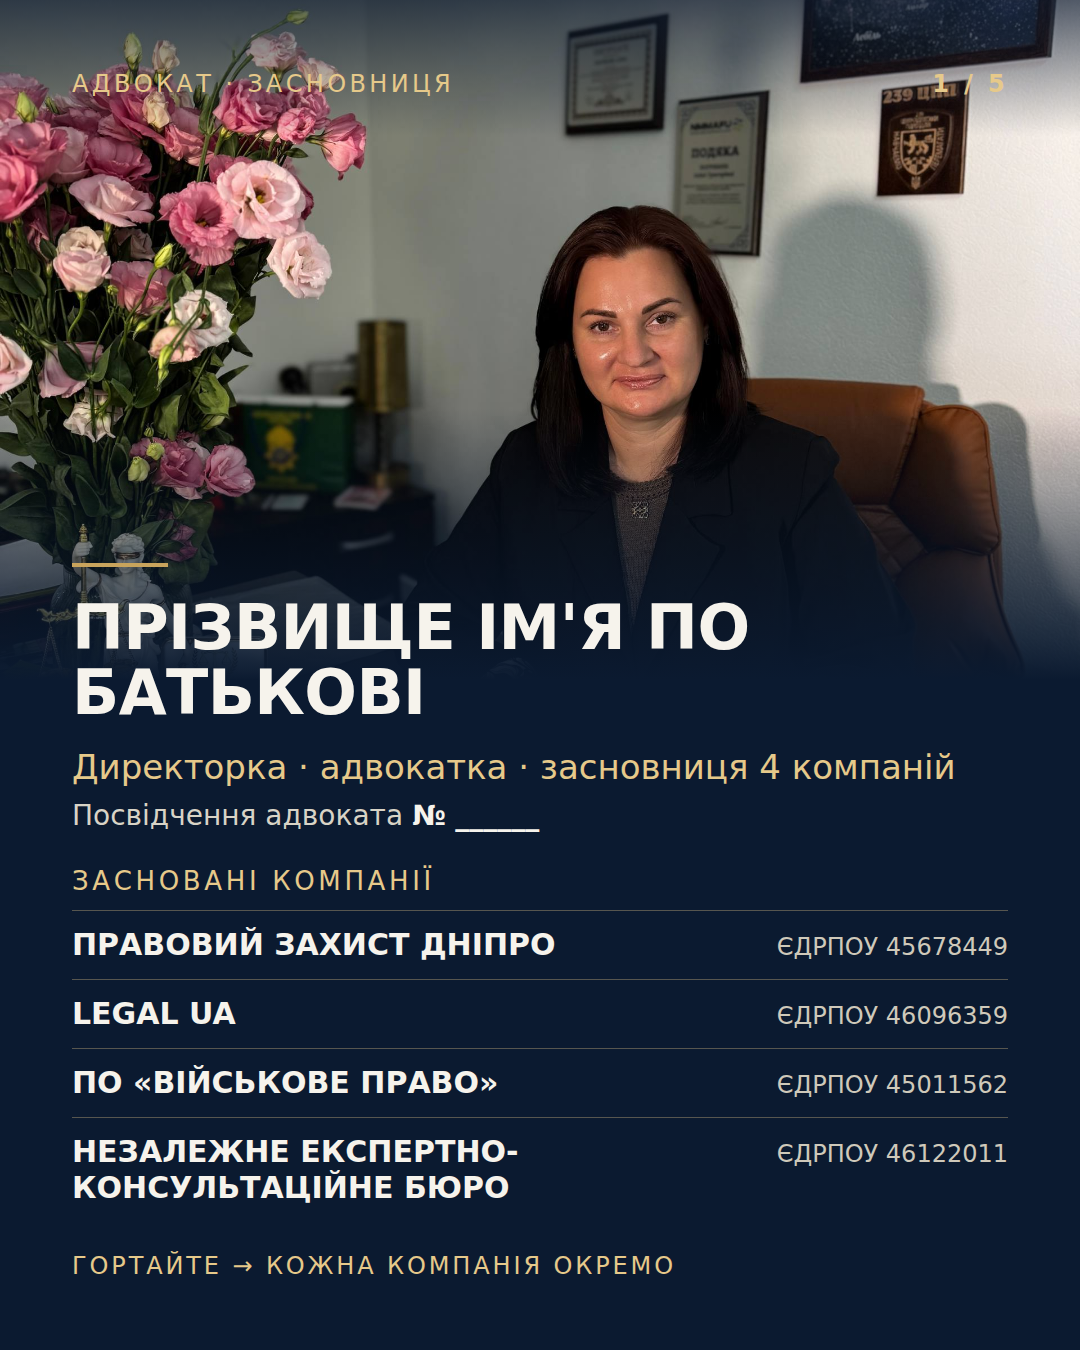
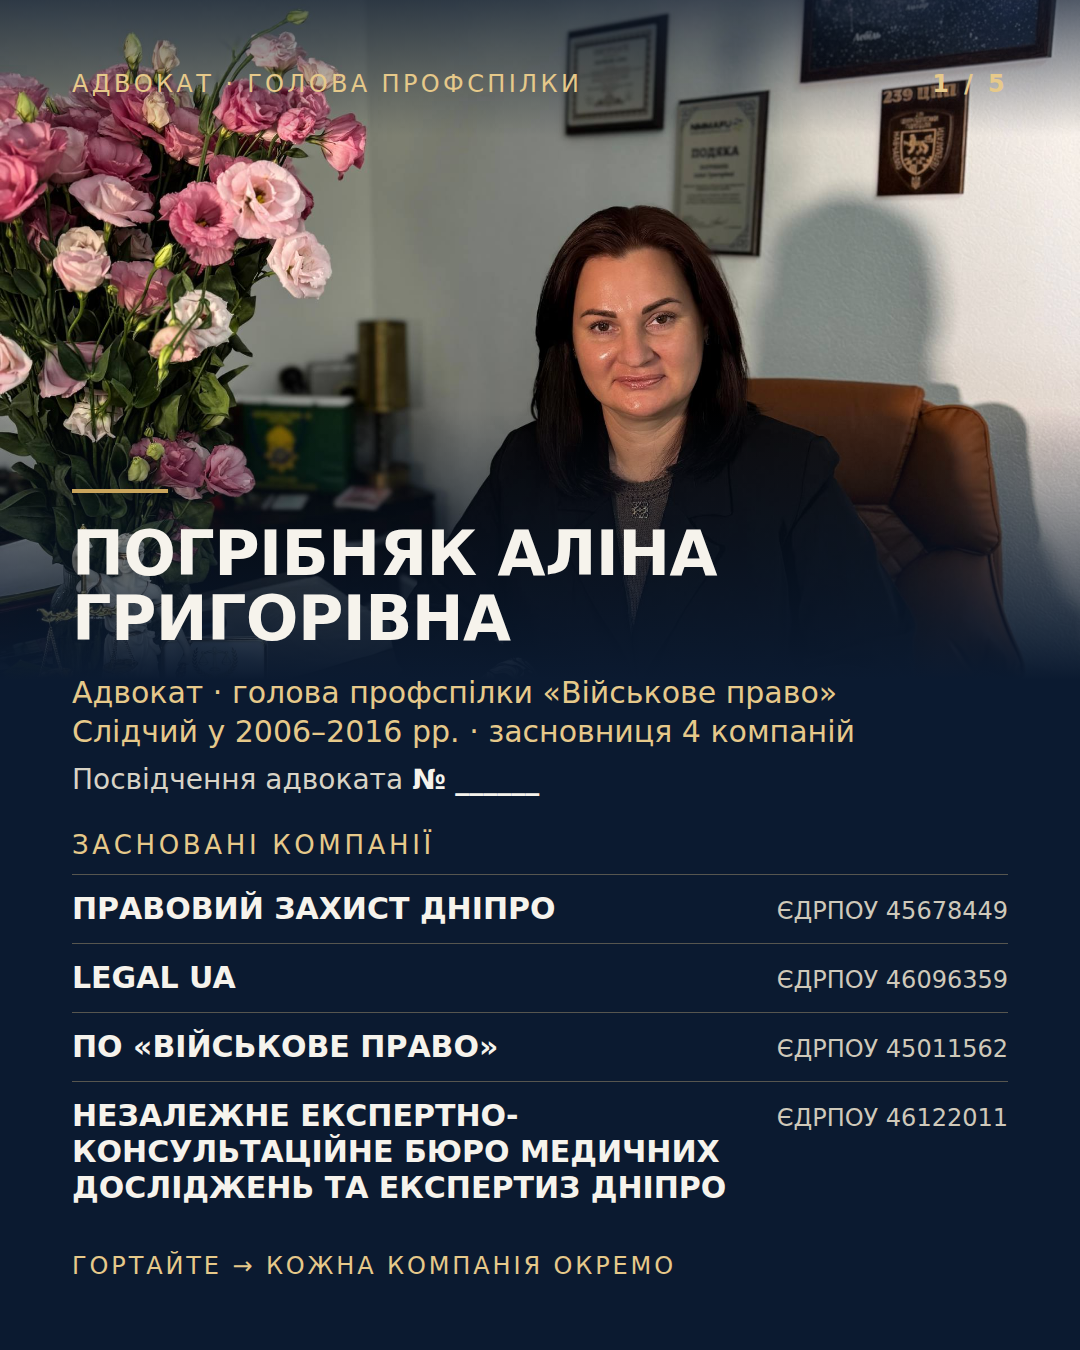
Carousel: add director name, roles and full company names
Claude-Session: https://claude.ai/code/session_01ScKPRsarJZMd8inKAKUiyX

Changed region(s): [[0.0611, 0.3733, 0.8861, 0.9022], [0.7028, 0.6533, 0.9472, 0.8711], [0.2444, 0.0311, 0.4278, 0.0933]]

diff --git a/carousel/slides.html b/carousel/slides.html
@@ -50,17 +50,17 @@
 <section class="slide s1" id="slide1">
   <div class="photo"></div><div class="shade"></div>
   <div class="content">
-    <div class="top"><span>Адвокат · Засновниця</span><span class="num">1 / 5</span></div>
+    <div class="top"><span>Адвокат · Голова профспілки</span><span class="num">1 / 5</span></div>
     <div class="spacer"></div>
     <div class="rule"></div>
     <div class="name">{{FIO}}</div>
-    <div class="role">Директорка · адвокатка · засновниця 4 компаній</div>
+    <div class="role" style="font-size:30px;line-height:1.3">Адвокат · голова профспілки «Військове право»<br>Слідчий у 2006–2016 рр. · засновниця 4 компаній</div>
     <div class="cert">Посвідчення адвоката <b>№ {{CERT}}</b></div>
     <div class="label">Засновані компанії</div>
     <div class="co">ПРАВОВИЙ ЗАХИСТ ДНІПРО <small>ЄДРПОУ 45678449</small></div>
     <div class="co">LEGAL UA <small>ЄДРПОУ 46096359</small></div>
     <div class="co">ПО «ВІЙСЬКОВЕ ПРАВО» <small>ЄДРПОУ 45011562</small></div>
-    <div class="co">НЕЗАЛЕЖНЕ ЕКСПЕРТНО-КОНСУЛЬТАЦІЙНЕ БЮРО <small>ЄДРПОУ 46122011</small></div>
+    <div class="co">НЕЗАЛЕЖНЕ ЕКСПЕРТНО-КОНСУЛЬТАЦІЙНЕ БЮРО МЕДИЧНИХ ДОСЛІДЖЕНЬ ТА ЕКСПЕРТИЗ ДНІПРО <small>ЄДРПОУ 46122011</small></div>
     <div class="swipe">Гортайте → кожна компанія окремо</div>
   </div>
 </section>
@@ -74,7 +74,7 @@
     <div class="rule"></div>
     <div class="big">Правовий захист Дніпро</div>
     <div class="edrpou">ЄДРПОУ 45678449</div>
-    <div class="founder"><b>{{FIO}}</b><br>Засновниця · адвокатка<br>Посвідчення адвоката № {{CERT}}</div>
+    <div class="founder"><b>{{FIO}}</b><br>Адвокат · засновниця<br>Посвідчення адвоката № {{CERT}}</div>
     <div class="swipe">Далі → LEGAL UA</div>
   </div>
 </section>
@@ -88,7 +88,7 @@
     <div class="rule"></div>
     <div class="big">LEGAL UA</div>
     <div class="edrpou">ЄДРПОУ 46096359</div>
-    <div class="founder"><b>{{FIO}}</b><br>Засновниця · адвокатка<br>Посвідчення адвоката № {{CERT}}</div>
+    <div class="founder"><b>{{FIO}}</b><br>Адвокат · засновниця<br>Посвідчення адвоката № {{CERT}}</div>
     <div class="swipe">Далі → Військове право</div>
   </div>
 </section>
@@ -102,7 +102,7 @@
     <div class="rule"></div>
     <div class="big">ПО «Військове право»</div>
     <div class="edrpou">ЄДРПОУ 45011562</div>
-    <div class="founder"><b>{{FIO}}</b><br>Засновниця · адвокатка<br>Посвідчення адвоката № {{CERT}}</div>
+    <div class="founder"><b>{{FIO}}</b><br>Голова профспілки військовослужбовців · адвокат<br>Посвідчення адвоката № {{CERT}}</div>
     <div class="swipe">Далі → Експертне бюро</div>
   </div>
 </section>
@@ -114,9 +114,9 @@
     <div class="top"><span>Компанія 04</span><span class="num">5 / 5</span></div>
     <div class="spacer"></div>
     <div class="rule"></div>
-    <div class="big" style="font-size:56px">Незалежне експертно-консультаційне бюро</div>
+    <div class="big" style="font-size:44px">Незалежне експертно-консультаційне бюро медичних досліджень та експертиз Дніпро</div>
     <div class="edrpou">ЄДРПОУ 46122011</div>
-    <div class="founder"><b>{{FIO}}</b><br>Засновниця · адвокатка<br>Посвідчення адвоката № {{CERT}}</div>
+    <div class="founder"><b>{{FIO}}</b><br>Адвокат · засновниця<br>Посвідчення адвоката № {{CERT}}</div>
     <div class="swipe">Юридична допомога військовим та їх родинам</div>
   </div>
 </section>
